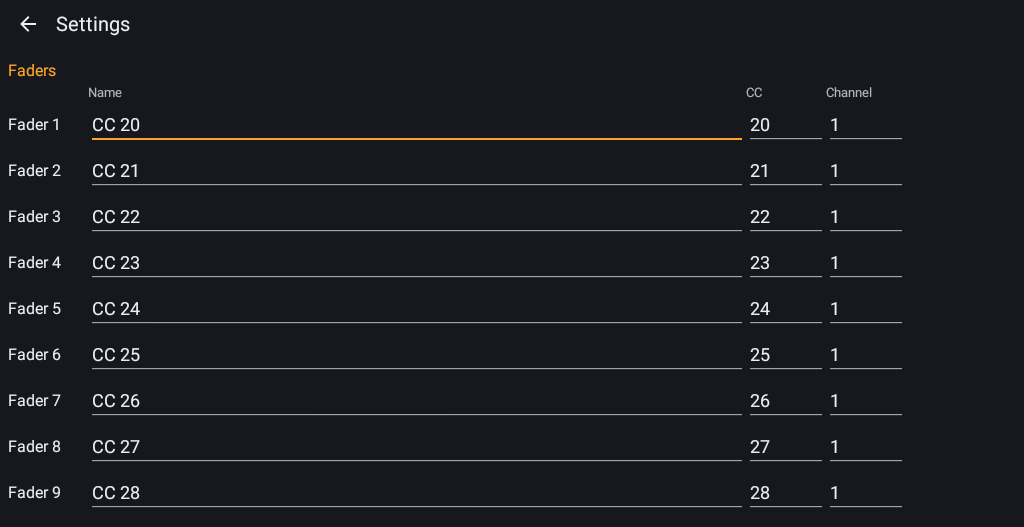
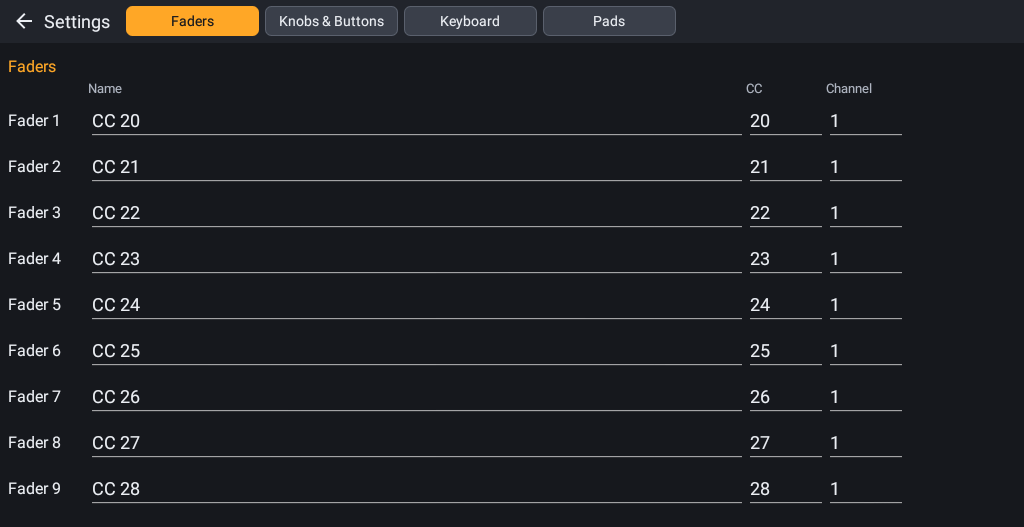
Settings split per Page with tabs; gear opens the current Page's settings

diff --git a/app/src/main/java/com/duddex/faderling/SettingsActivity.kt b/app/src/main/java/com/duddex/faderling/SettingsActivity.kt
@@ -32,46 +32,60 @@ class SettingsActivity : Activity() {
     }
 
     private lateinit var store: AssignmentStore
+    private lateinit var list: LinearLayout
+    private lateinit var scroll: ScrollView
+    private lateinit var tabs: List<TextView>
+    private var page = 0
     private val rows = mutableListOf<Row>()
+
+    /** Every Control's Assignment, including those of other Pages, for duplicate warnings. */
+    private val assignments = HashMap<Pair<ControlKind, Int>, Assignment>()
 
     override fun onCreate(savedInstanceState: Bundle?) {
         super.onCreate(savedInstanceState)
         store = AssignmentStore(this)
+        ControlKind.entries.forEach { kind -> store.loadAll(kind).forEachIndexed { i, a -> assignments[kind to i] = a } }
 
-        val root = LinearLayout(this).apply {
-            orientation = LinearLayout.VERTICAL
-            setPadding(dp(8), dp(4), dp(8), dp(4))
+        setContentView(R.layout.activity_settings)
+        findViewById<View>(R.id.root).padForSystemBars()
+        findViewById<ImageButton>(R.id.back).setOnClickListener { finish() }
+        list = findViewById(R.id.list)
+        scroll = findViewById(R.id.scroll)
+        tabs = listOf(R.id.tabFaders, R.id.tabKnobsButtons, R.id.tabKeyboard, R.id.tabPads).mapIndexed { p, id ->
+            findViewById<TextView>(id).apply { setOnClickListener { showPage(p) } }
         }
-        root.addView(header())
+        showPage(savedInstanceState?.getInt(STATE_PAGE) ?: intent.getIntExtra(EXTRA_PAGE, 0))
+    }
 
-        val list = LinearLayout(this).apply { orientation = LinearLayout.VERTICAL }
-        section(list, ControlKind.FADER, R.string.section_faders, R.string.fader_number)
-        section(list, ControlKind.KNOB, R.string.section_knobs, R.string.knob_number)
-        section(list, ControlKind.BUTTON, R.string.section_buttons, R.string.button_number)
-        keyboardSection(list)
-        padsSection(list)
-        root.addView(ScrollView(this).apply { addView(list) }, LinearLayout.LayoutParams(LinearLayout.LayoutParams.MATCH_PARENT, 0, 1f))
+    override fun onSaveInstanceState(outState: Bundle) {
+        super.onSaveInstanceState(outState)
+        outState.putInt(STATE_PAGE, page)
+    }
 
-        setContentView(root)
-        root.padForSystemBars()
+    /** Shows the settings belonging to one Page of the main screen. */
+    private fun showPage(p: Int) {
+        page = p
+        tabs.forEachIndexed { i, t -> t.isSelected = i == p }
+        currentFocus?.clearFocus()
+        list.removeAllViews()
+        rows.clear()
+        when (p) {
+            0 -> section(list, ControlKind.FADER, R.string.section_faders, R.string.fader_number)
+            1 -> {
+                section(list, ControlKind.KNOB, R.string.section_knobs, R.string.knob_number)
+                section(list, ControlKind.BUTTON, R.string.section_buttons, R.string.button_number)
+            }
+            2 -> keyboardSection(list)
+            3 -> padsSection(list)
+        }
+        scroll.scrollTo(0, 0)
         updateWarnings()
     }
 
-    private fun header(): View = LinearLayout(this).apply {
-        gravity = Gravity.CENTER_VERTICAL
-        addView(ImageButton(this@SettingsActivity).apply {
-            setImageResource(R.drawable.ic_back)
-            setBackgroundResource(resolveAttr(android.R.attr.selectableItemBackgroundBorderless))
-            contentDescription = getString(R.string.back)
-            setOnClickListener { finish() }
-        }, LinearLayout.LayoutParams(dp(40), dp(40)))
-        addView(text(getString(R.string.settings), Palette.TEXT, 20f).apply { setPadding(dp(8), 0, 0, 0) })
-    }
-
     private fun section(list: LinearLayout, kind: ControlKind, titleRes: Int, labelRes: Int) {
-        list.addView(text(getString(titleRes), Palette.ACCENT, 16f).apply { setPadding(0, dp(16), 0, dp(2)) })
+        list.addView(text(getString(titleRes), Palette.ACCENT, 16f).apply { setPadding(0, dp(12), 0, dp(2)) })
         list.addView(columnLabels(kind == ControlKind.BUTTON))
-        store.loadAll(kind).forEachIndexed { i, a -> list.addView(row(kind, i, a, getString(labelRes, i + 1))) }
+        (0 until kind.count).forEach { i -> list.addView(row(kind, i, assignments.getValue(kind to i), getString(labelRes, i + 1))) }
     }
 
     private fun keyboardSection(list: LinearLayout) {
@@ -247,6 +261,7 @@ class SettingsActivity : Activity() {
             val mode = r.mode?.tag as? ButtonMode ?: ButtonMode.MOMENTARY
             val a = Assignment(r.name.text.toString(), cc, channel, mode)
             r.current = a
+            assignments[r.kind to r.index] = a
             store.save(r.kind, r.index, a)
             updateWarnings()
         }
@@ -255,23 +270,26 @@ class SettingsActivity : Activity() {
     private fun updateWarnings() {
         rows.forEach { r ->
             val a = r.current ?: return@forEach
-            val others = rows.filter { o -> o !== r && o.current?.cc == a.cc && o.current?.channel == a.channel }
+            val others = assignments.entries
+                .filter { (key, o) -> key != (r.kind to r.index) && o.cc == a.cc && o.channel == a.channel }
+                .map { it.key }
+                .sortedWith(compareBy({ it.first.ordinal }, { it.second }))
             if (others.isEmpty()) {
                 r.warning.visibility = View.GONE
             } else {
-                r.warning.text = getString(R.string.warning_duplicate, others.joinToString(", ") { label(it) })
+                r.warning.text = getString(R.string.warning_duplicate, others.joinToString(", ") { label(it.first, it.second) })
                 r.warning.visibility = View.VISIBLE
             }
         }
     }
 
-    private fun label(r: Row): String = getString(
-        when (r.kind) {
+    private fun label(kind: ControlKind, index: Int): String = getString(
+        when (kind) {
             ControlKind.FADER -> R.string.fader_number
             ControlKind.KNOB -> R.string.knob_number
             ControlKind.BUTTON -> R.string.button_number
         },
-        r.index + 1,
+        index + 1,
     )
 
     private fun edit(value: String, type: Int, maxLength: Int) = EditText(this).apply {
@@ -289,15 +307,11 @@ class SettingsActivity : Activity() {
         setTextSize(TypedValue.COMPLEX_UNIT_SP, sizeSp)
     }
 
-    private fun resolveAttr(attr: Int): Int {
-        val tv = TypedValue()
-        theme.resolveAttribute(attr, tv, true)
-        return tv.resourceId
-    }
-
     private fun dp(v: Int) = (v * resources.displayMetrics.density).toInt()
 
-    private companion object {
-        const val MODE_WIDTH = 110
+    companion object {
+        const val EXTRA_PAGE = "page"
+        private const val STATE_PAGE = "page"
+        private const val MODE_WIDTH = 110
     }
 }

diff --git a/app/src/main/java/com/duddex/faderling/MainActivity.kt b/app/src/main/java/com/duddex/faderling/MainActivity.kt
@@ -64,7 +64,7 @@ class MainActivity : Activity(), ControlListener, KeyboardView.Listener, PadGrid
         endpoint = (application as FaderlingApp).endpoint
         sessionStatus = findViewById(R.id.sessionStatus)
         findViewById<ImageButton>(R.id.settingsButton).setOnClickListener {
-            startActivity(Intent(this, SettingsActivity::class.java))
+            startActivity(Intent(this, SettingsActivity::class.java).putExtra(SettingsActivity.EXTRA_PAGE, currentPage))
         }
 
         pages = listOf(findViewById(R.id.faders), findViewById(R.id.knobsButtons), findViewById(R.id.keyboardPage), findViewById(R.id.padsPage))

diff --git a/README.md b/README.md
@@ -29,7 +29,7 @@ An Android app that turns a tablet into pages of MIDI controls – 10 faders, 8 
 - Buttons are **Momentary** (on while held) or **Latch** (each press flips on/off); they send 127 for on, 0 for off. Latch Buttons have a small LED in the corner that lights while they are on
 - 7-bit CC (0–127), send-only, landscape
 - Every Control re-sends its final value shortly after release, and every Note Off is sent twice, to make up for lost Wi-Fi packets; held notes are released when you switch Pages or leave the app
-- Per-Control Assignment (name, CC number, MIDI channel, and mode for buttons), plus Keyboard channel and velocity (default 100) and per-Pad name and note with a shared Pad channel and velocity, edited on the settings screen (gear icon); duplicate CC/channel combinations are flagged
+- Per-Control Assignment (name, CC number, MIDI channel, and mode for buttons), plus Keyboard channel and velocity (default 100) and per-Pad name and note with a shared Pad channel and velocity, edited in the settings (gear icon), which have one tab per Page and open on the Page you are on; duplicate CC/channel combinations are flagged, also across Pages
 - Default CCs: faders 20–29, knobs 102–109, buttons 110–117, all on channel 1
 - Advertises itself via Bonjour as **Faderling** plus the device model (e.g. *Faderling KFAUWI*), so several tablets can be told apart; the receiver starts the Session
 - Session status shown on the main screen
